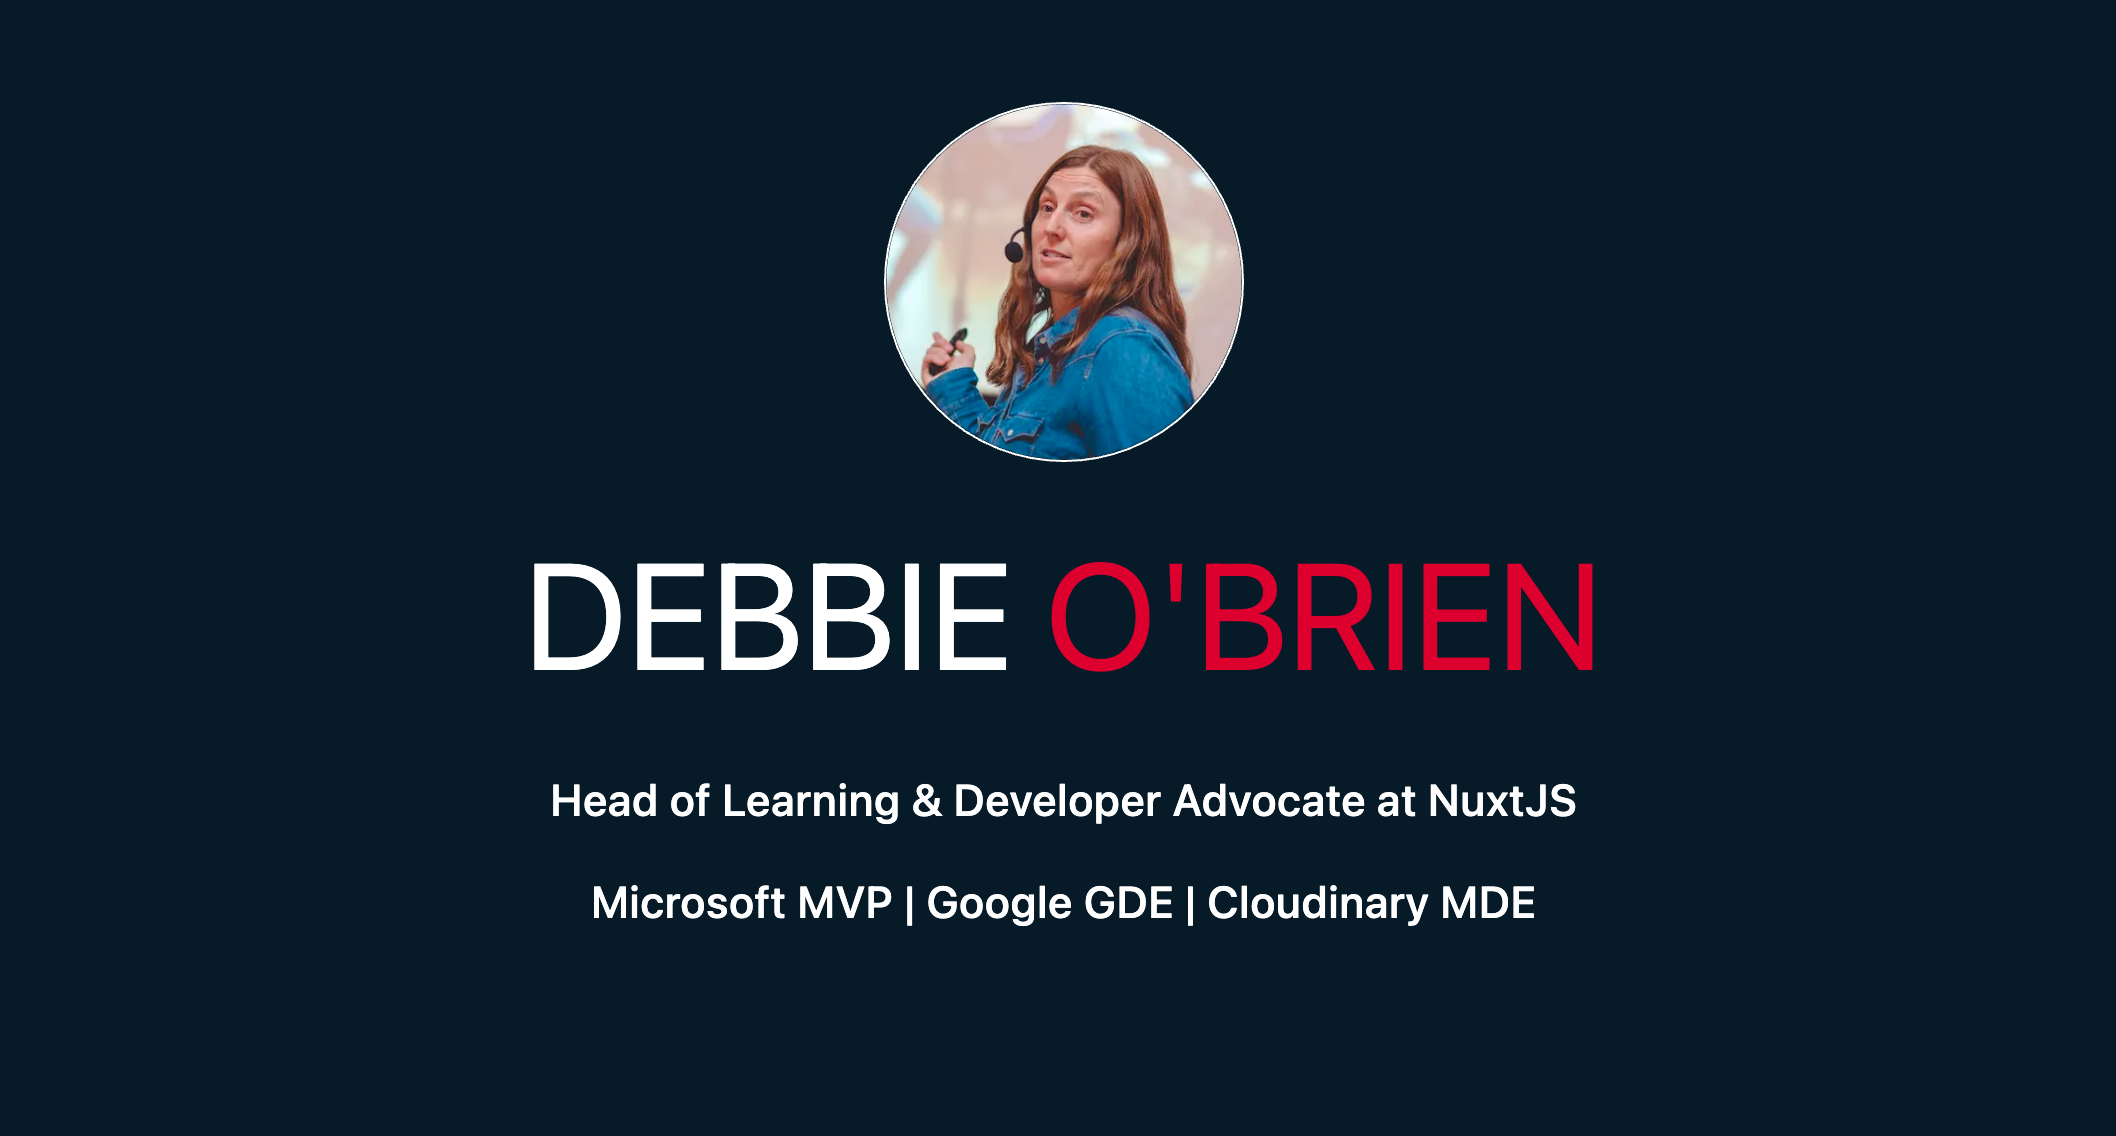
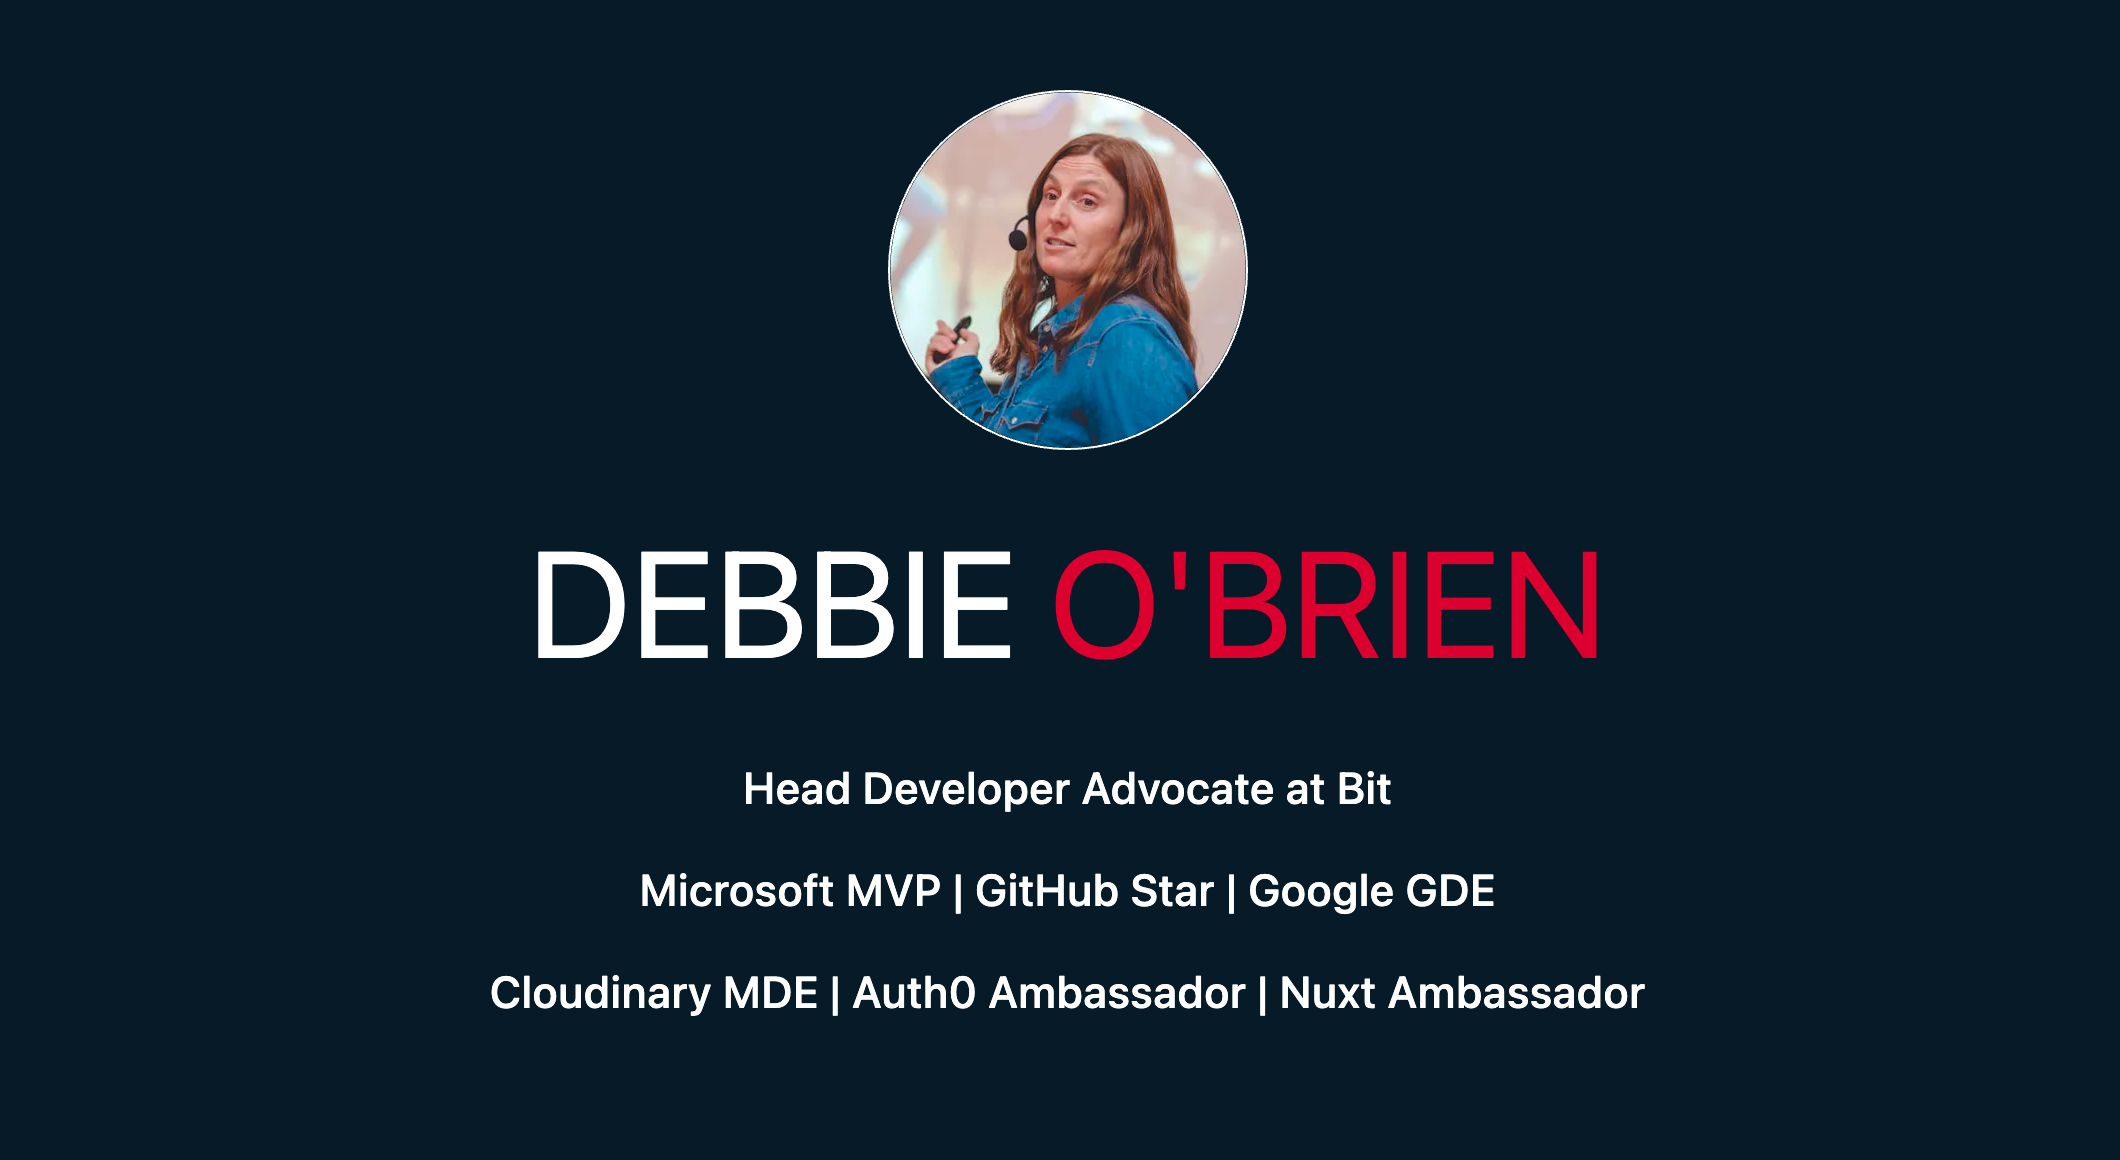
change twitter card and add live stream

Changed region(s): [[0.2183, 0.647, 0.7798, 0.8935], [0.2495, 0.4621, 0.7486, 0.6162], [0.4055, 0.0616, 0.5926, 0.4313]]

diff --git a/content/live-streams/nuxt-image.md b/content/live-streams/nuxt-image.md
@@ -1,0 +1,7 @@
+---
+title: Nuxt Image
+date: 2021-09-04
+description: Let's fix the images on debbie.codes
+video: 2wrfpjFeKpE
+tags: [Nuxt]
+---
